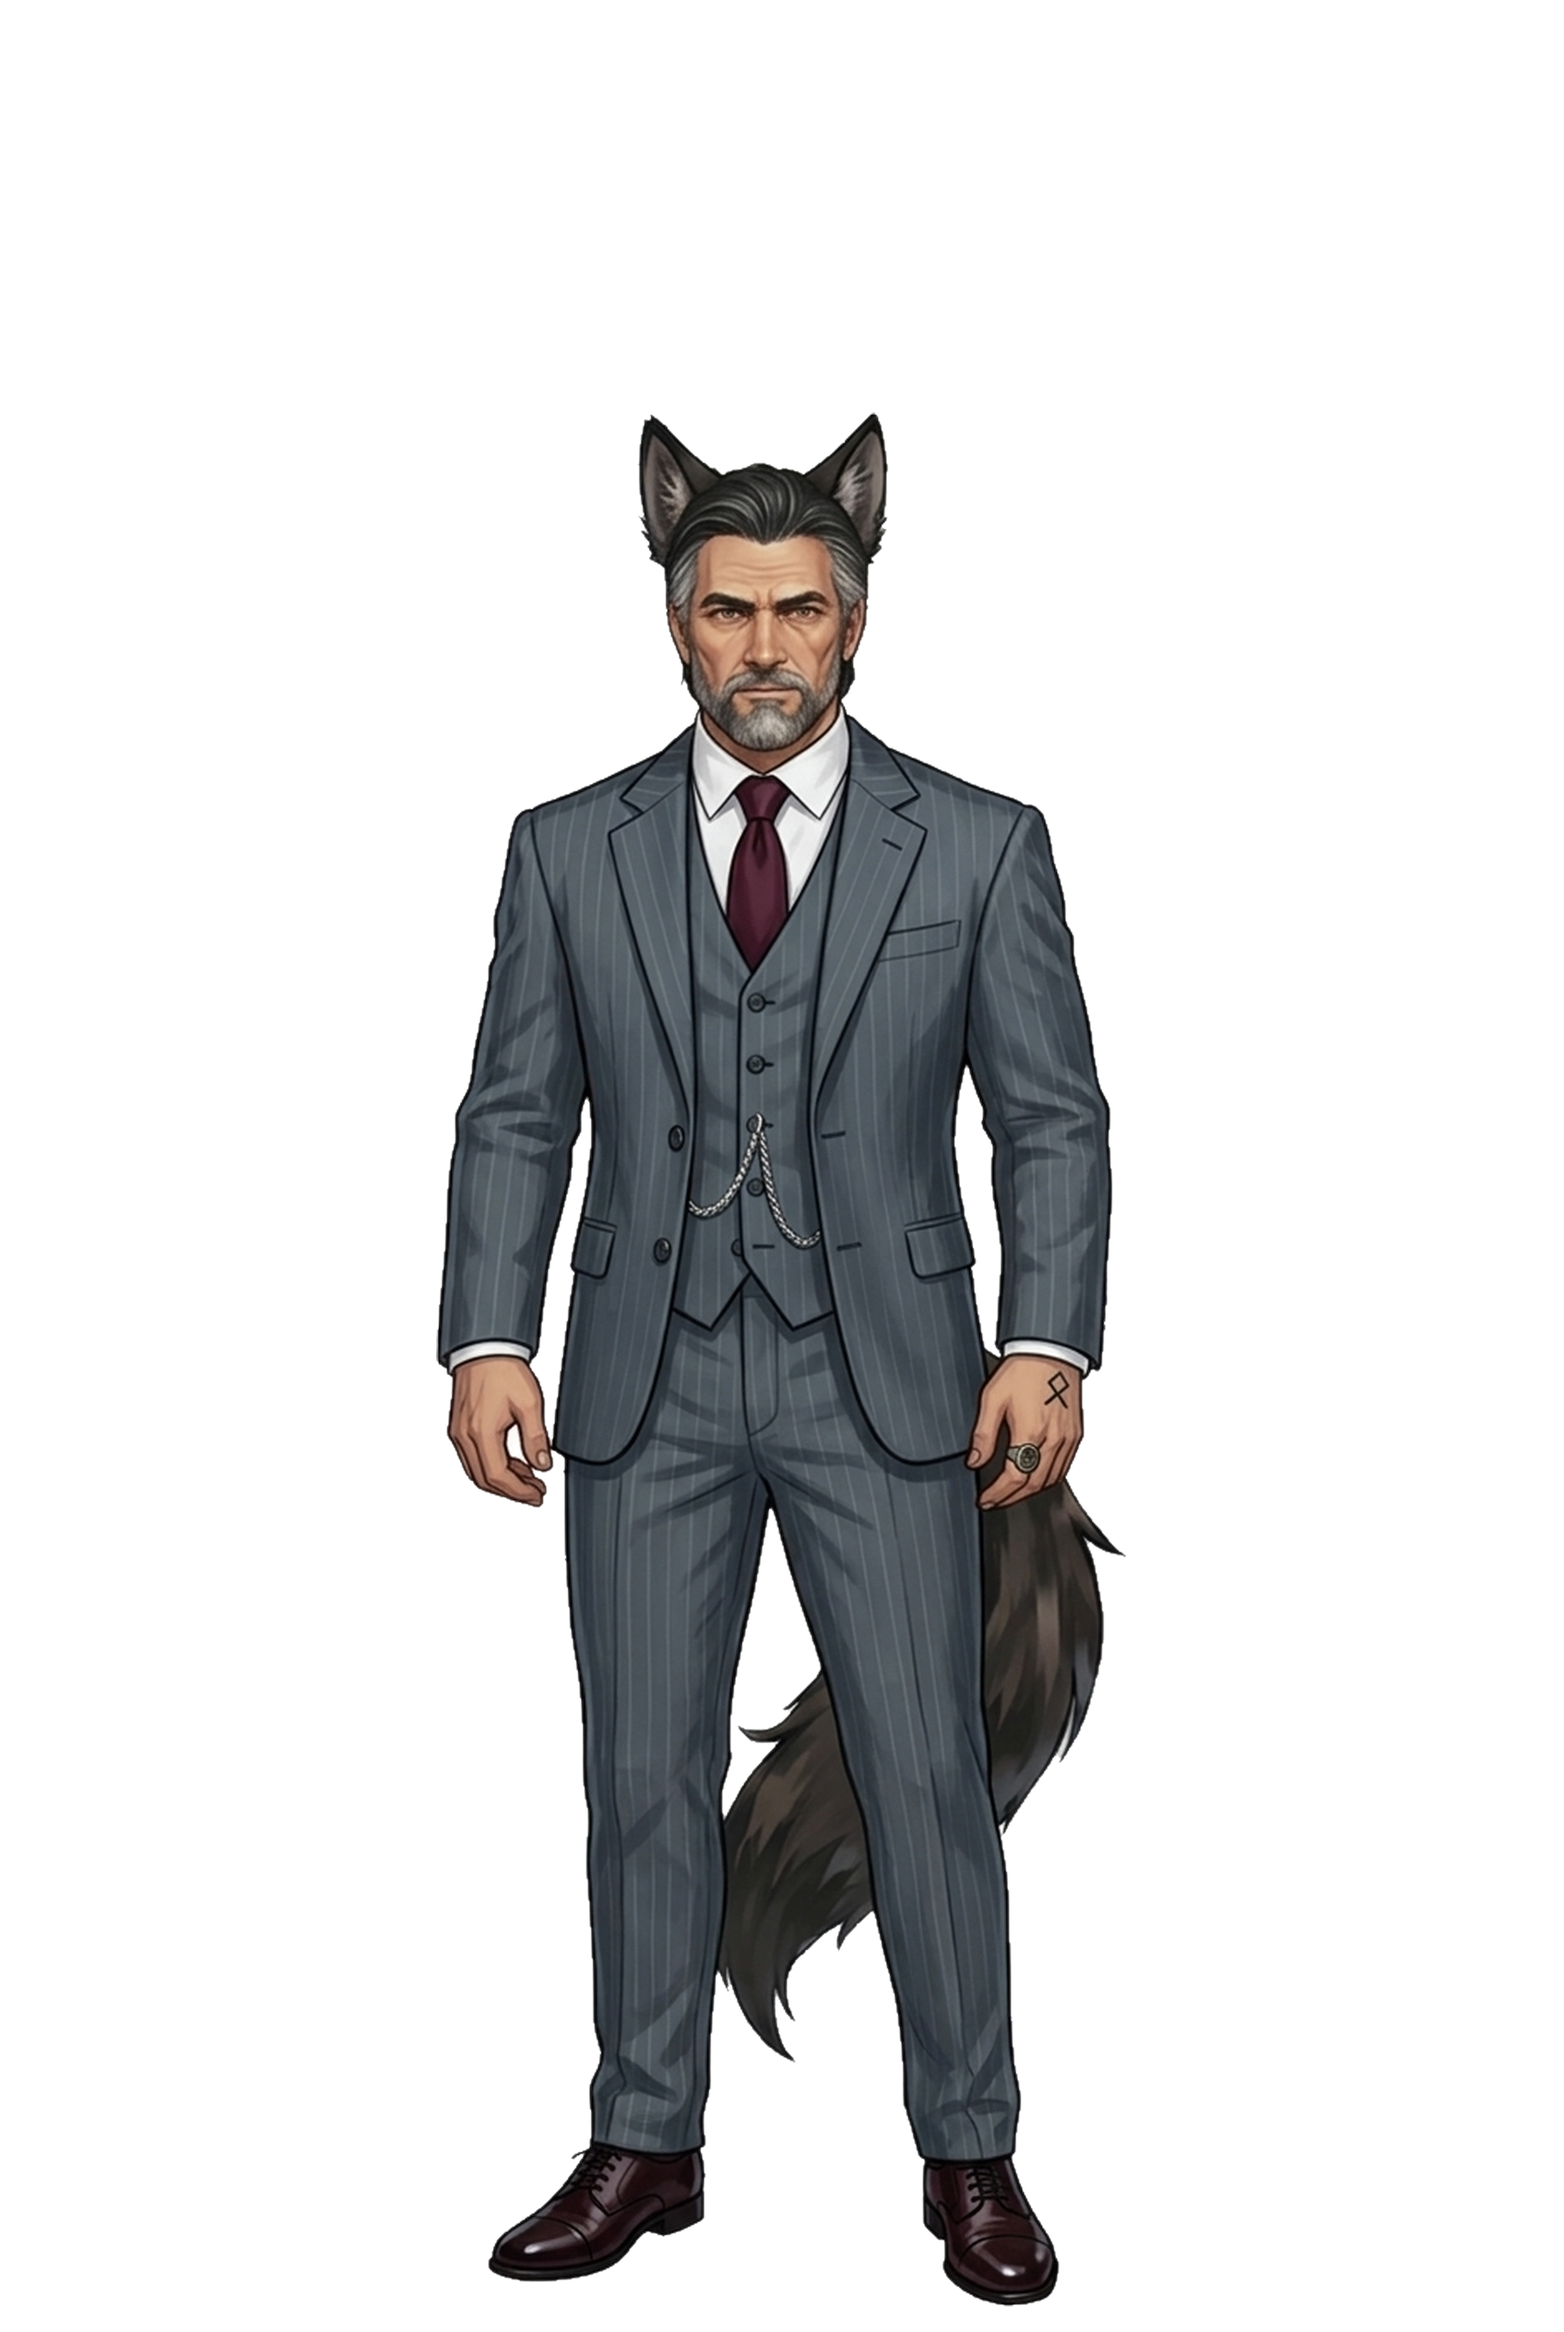
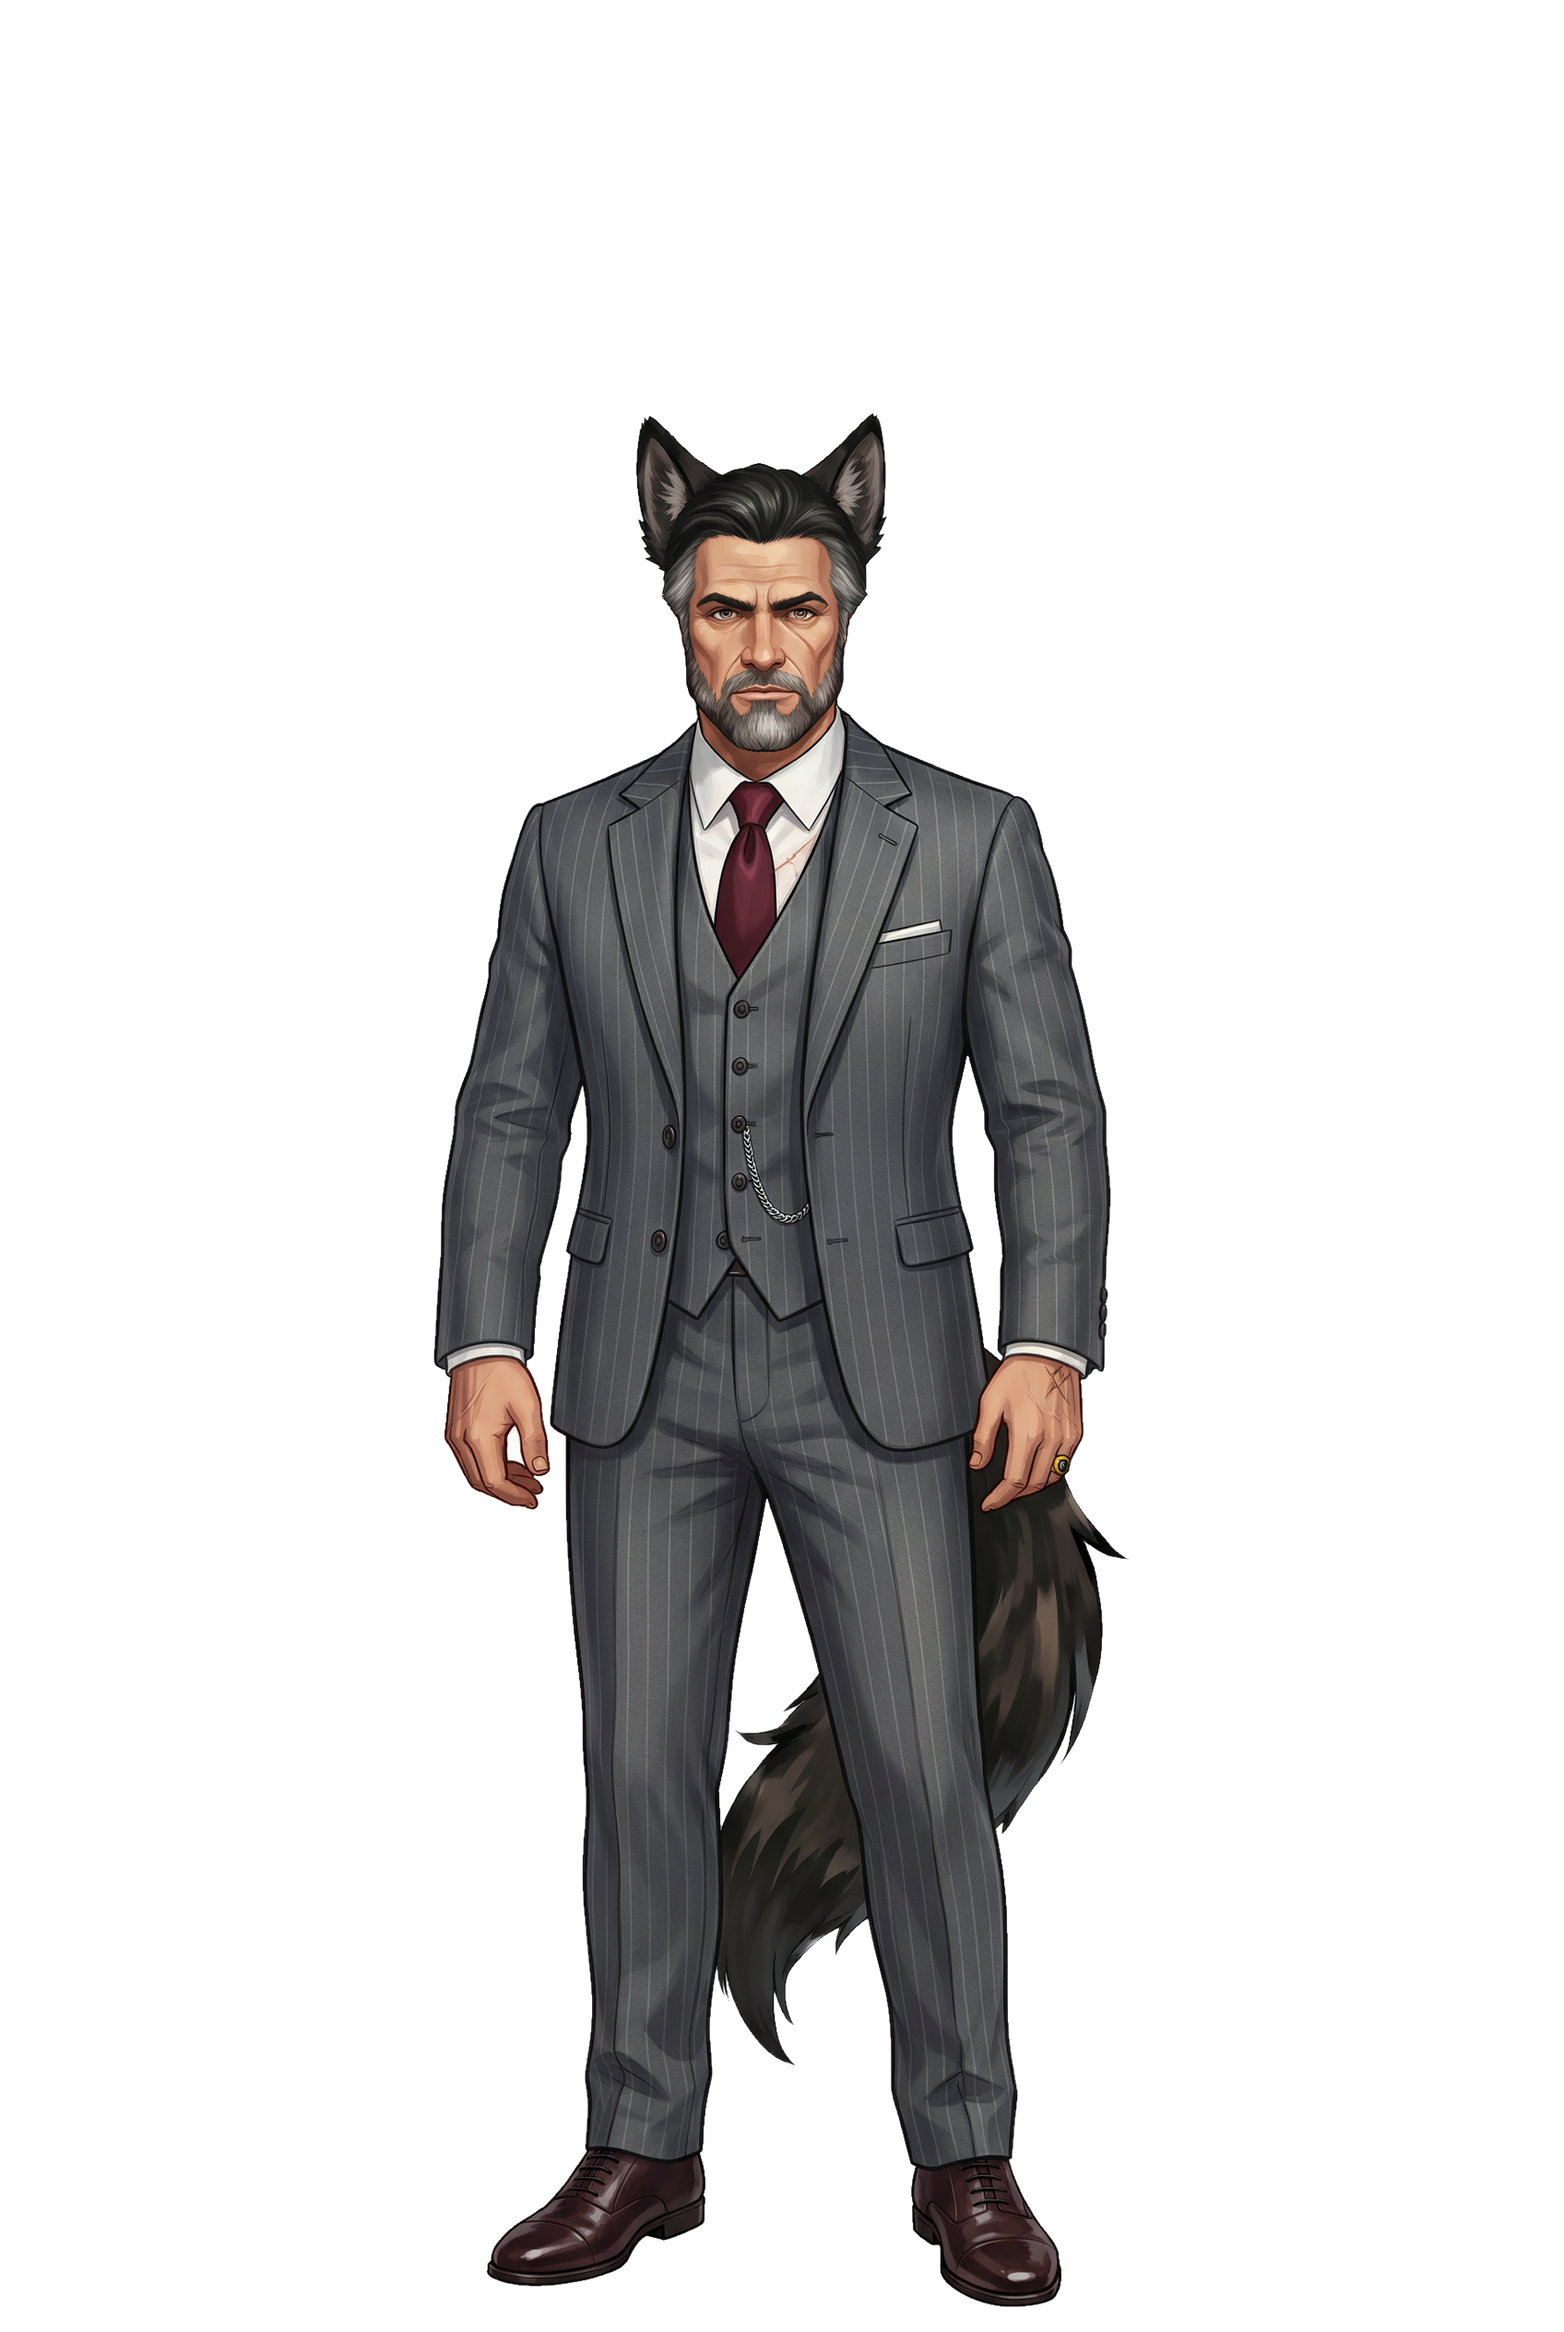
Finalize Magnus ear-free neutral and first 5 Wave 2 Neutrals (1696x2528 RGBA)

Changed region(s): [[0.2812, 0.1875, 0.7188, 1.0], [0.6875, 0.6562, 0.7188, 0.6875]]

diff --git a/scripts/asset_reference_pipeline.py b/scripts/asset_reference_pipeline.py
@@ -675,7 +675,7 @@ def get_manifest_entries(existing_items: dict[str, dict] | None = None, seed_reg
             "zeera",
             "NPC\\Zeera",
             208,
-            False,
+            True,
             ["zeera_anchor.jpg"],
             MASTER_REF_TEMPLATE.format(
                 identity="Zeera Darkfire (appearing 29, 208 cm brute muscular male Red Bloodline Vax Demon CEO & Warlord, anchored 1:1 to zeera_anchor.jpg)",
@@ -934,7 +934,8 @@ def get_manifest_entries(existing_items: dict[str, dict] | None = None, seed_reg
     ]
     for eid, folder, h_cm, ears_above, r_anc, r_prompt, n_summary in wave2_specs_custom:
         ref_fname = "richard_w_reference.png" if eid == "richard" else f"{eid}_reference.png"
-        add(eid, "2", folder, h_cm, ears_above, ref_fname, f"{eid}_neutral.png", ref_prompt=r_prompt, neutral_prompt=n_summary, ref_anchors=r_anc)
+        neu_fname = "richard_w_neutral.png" if eid == "richard" else f"{eid}_neutral.png"
+        add(eid, "2", folder, h_cm, ears_above, ref_fname, neu_fname, ref_prompt=r_prompt, neutral_prompt=n_summary, ref_anchors=r_anc)
 
     # === WAVE 3: Variants in the SAME folder as the original ===
     variants = [
@@ -1306,7 +1307,7 @@ def flood_fill_white_bg_rgba(im_rgb: Image.Image) -> Image.Image:
     fg_ys = np.where(~bg_mask)[0]
     y_fg_top = int(fg_ys.min()) if len(fg_ys) else 0
     fg_h = (int(fg_ys.max()) - y_fg_top + 1) if len(fg_ys) else h
-    face_protect_y = y_fg_top + int(0.14 * fg_h)
+    head_protect_y = y_fg_top + int(0.18 * fg_h)
 
     pure_pocket = (cmin >= 248) & (sat <= 6) & (~bg_mask)
     visited_p = np.zeros((h, w), dtype=bool)
@@ -1327,8 +1328,9 @@ def flood_fill_white_bg_rgba(im_rgb: Image.Image) -> Image.Image:
                 ys_p = [p[0] for p in pts]
                 xs_p = [p[1] for p in pts]
                 min_y_p = min(ys_p)
-                min_pts = 45 if min_y_p > face_protect_y else 120
-                if len(pts) >= min_pts and float(cmin[ys_p, xs_p].mean()) >= 251.5:
+                if min_y_p < head_protect_y:
+                    continue
+                if len(pts) >= 45 and float(cmin[ys_p, xs_p].mean()) >= 251.5:
                     pocket_seeds.extend(pts)
 
     if pocket_seeds:

diff --git a/CHANGELOG.md b/CHANGELOG.md
@@ -1,5 +1,14 @@
 # Changelog di Progetto — Svartúlfr Verse
 
+### 27/11/2026 (11:16) - Aggiornamento `Magnus` Senza Orecchie Umane & Primi `5/10` Visual Novel Neutral Wave 2 (`1696x2528` RGBA) (#Rules 03, 05)
+- **Rigenerazione `Magnus` Senza Orecchie Umane ([magnus_reference.png](file:///e:/repository/SvartulfrVerse/assets/Magnus/magnus_reference.png), [magnus_neutral.png](file:///e:/repository/SvartulfrVerse/assets/Magnus/magnus_neutral.png)):**
+  - Verificati tutti i `15/15` licantropi (`ref` e `neutral`): `100%` puliti e privi di orecchie umane ai lati.
+  - Finalizzato il nuovo [magnus_neutral.png](file:///e:/repository/SvartulfrVerse/assets/Magnus/magnus_neutral.png) su griglia condivisa `1696x2528` RGBA (`eff=205.0 cm`).
+- **Wave 2 Visual Novel Neutral Sprites (`5/10` Finalizzati su Griglia Centimetrica Verificata in [wave2_batch1_plus_magnus_height_lineup.jpg](file:///C:/Users/mande/.gemini/antigravity/brain/713be534-6fb6-4fa8-bd35-5129adcc8c16/wave2_batch1_plus_magnus_height_lineup.jpg)):**
+  - [zeera_neutral.png](file:///e:/repository/SvartulfrVerse/assets/NPC/Zeera/zeera_neutral.png) (`208.0 cm`), [mac_neutral.png](file:///e:/repository/SvartulfrVerse/assets/NPC/Mac/mac_neutral.png) (`204.0 cm`), [larek_neutral.png](file:///e:/repository/SvartulfrVerse/assets/NPC/Larek/larek_neutral.png) (`201.0 cm`), [richard_w_neutral.png](file:///e:/repository/SvartulfrVerse/assets/NPC/Richard_W/richard_w_neutral.png) (`193.0 cm`) e [adam_neutral.png](file:///e:/repository/SvartulfrVerse/assets/NPC/Adam/adam_neutral.png) (`188.0 cm`).
+- **Hardening Matting ([asset_reference_pipeline.py](file:///e:/repository/SvartulfrVerse/scripts/asset_reference_pipeline.py)):**
+  - Impostato `zeera` (`has_ears_above_crown=True`), `richard_w_neutral.png` come output canonico per `#01` e aggiunta protezione della fascia cranica (`head_protect_y = 18%`) in `flood_fill_white_bg_rgba` per proteggere i capelli bianco neve (es. Adam/Hana) mantenendo la rimozione delle tasche bianche chiuse tra braccia e gambe (es. Magnus).
+
 ### 27/11/2026 (10:45) - Completamento Reference Wave 2 (`10/10 DONE`: `Dullahan`, `Johan`, `Fenrir`) & Guida Prompt `2:3` Neutral (#Rules 03, 05)
 - **Chiusa al 100% la Wave 2 Turnaround Reference Sheets (`10/10` `DONE`, `2730x1536` RGB su `#C8C8C8`):**
   - Verificate visivamente, normalizzate (`fenris_reference.png` rinominata in `fenrir_reference.png`) e finalizzate le ultime `3` tavole: [dullahan_reference.png](file:///e:/repository/SvartulfrVerse/assets/NPC/Dullahan/dullahan_reference.png) (`#04` senza testa con cappuccio vuoto e marchio `'IV'`), [johan_reference.png](file:///e:/repository/SvartulfrVerse/assets/NPC/Johan/johan_reference.png) (`#05` forma base umana senza occhiali) e [fenrir_reference.png](file:///e:/repository/SvartulfrVerse/assets/NPC/Fenrir/fenrir_reference.png) (`#06` forma base umana con bende insanguinate e marchio `'VI'`).
